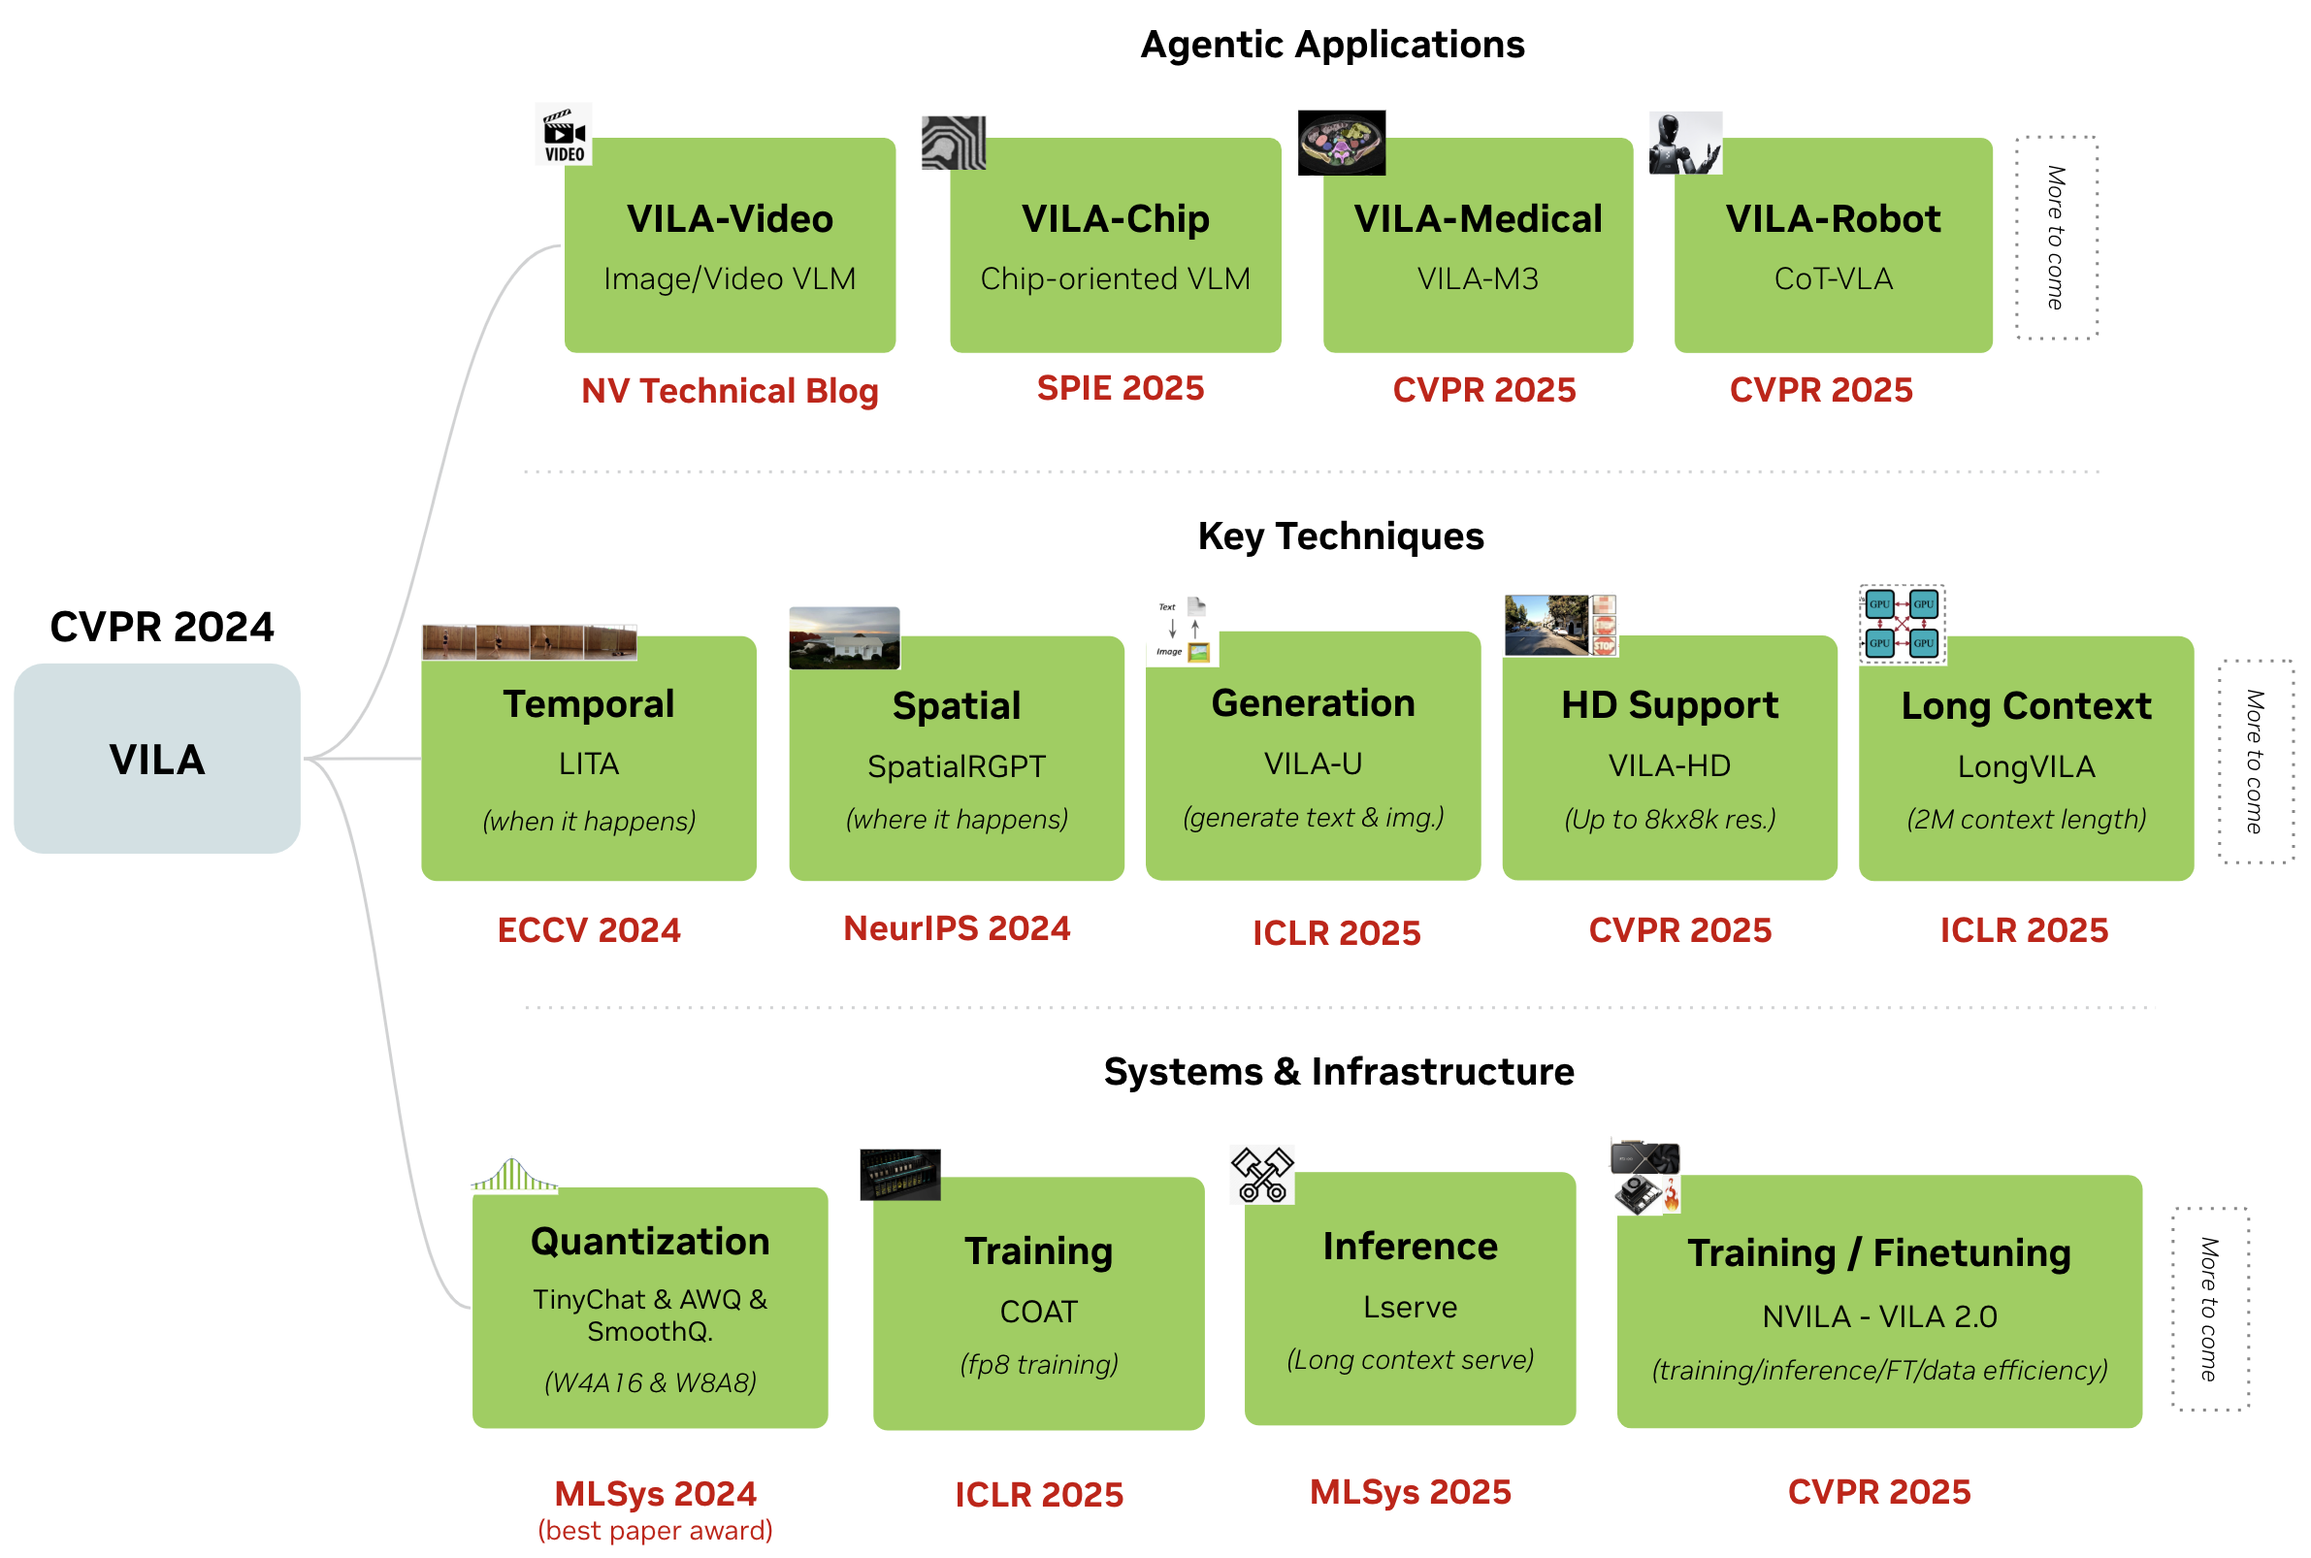
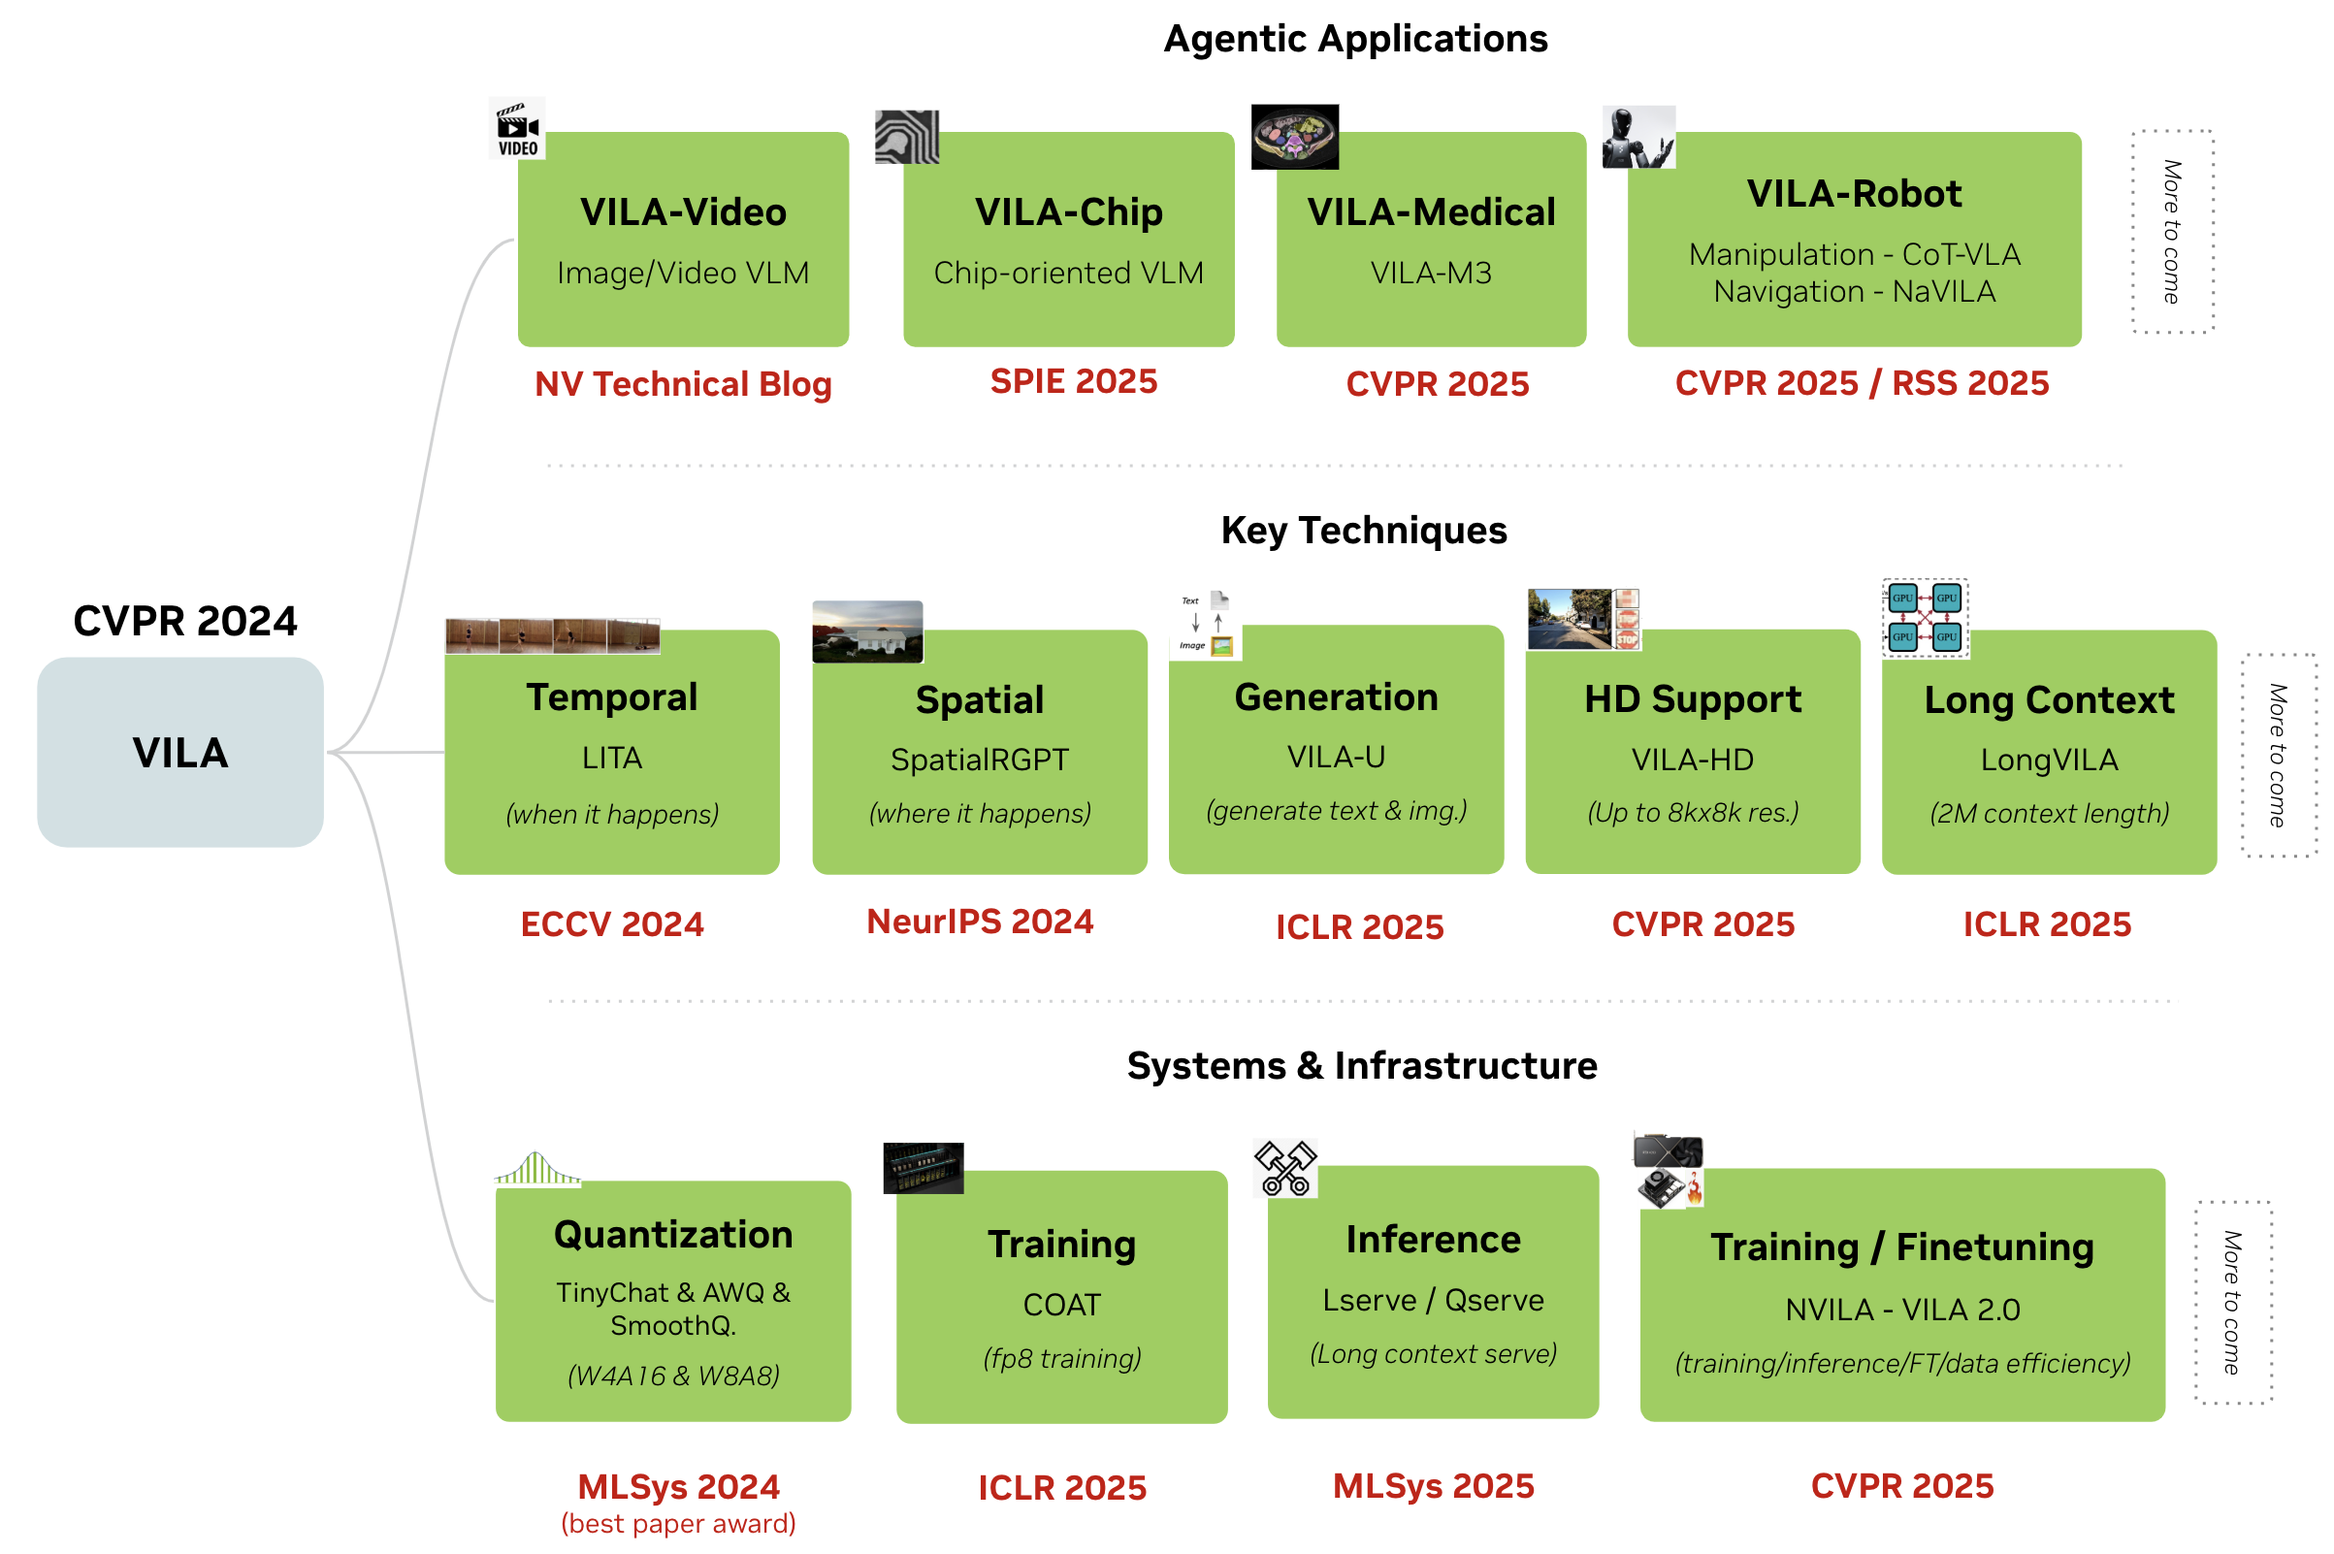
rss

diff --git a/index.html b/index.html
@@ -267,7 +267,7 @@
               <br>
               An-Chieh Cheng*, Yandong Ji*, Zhaojing Yang*, Xueyan Zou, Jan Kautz, Erdem Bıyık, <strong>Hongxu Yin&Dagger;</strong>, Sifei Liu&Dagger;, Xiaolong Wang&Dagger;
               <br>
-               <em>preprint</em>, 2024
+               <em>RSS</em>, 2025
               <br>
               <a href="https://arxiv.org/abs/2412.04453">arXiv</a>
               <p></p>
